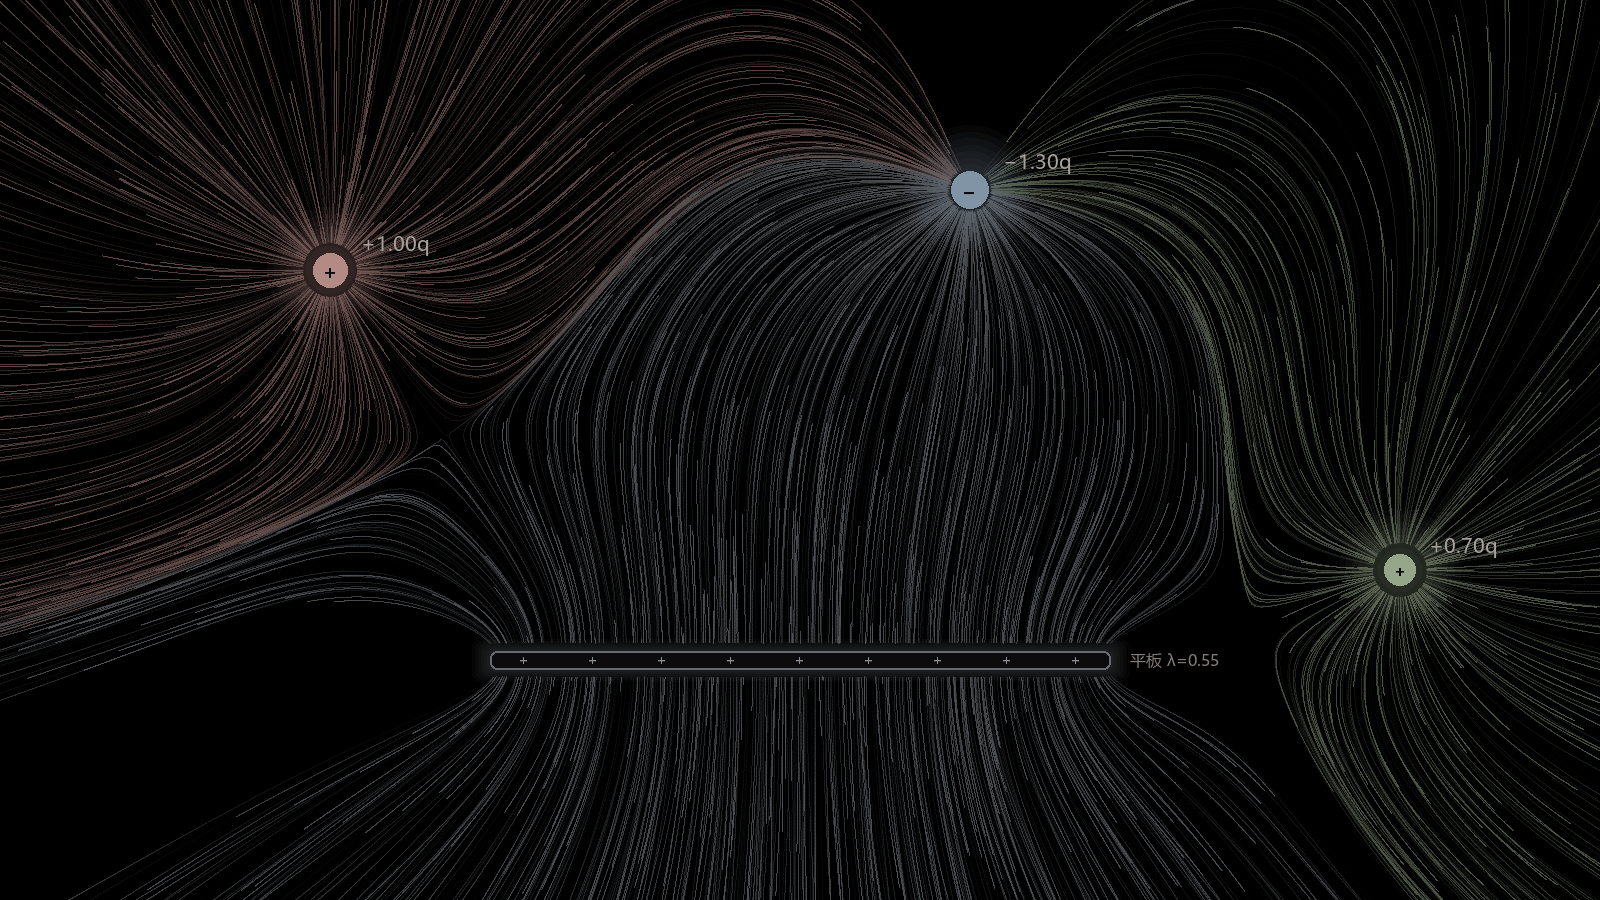
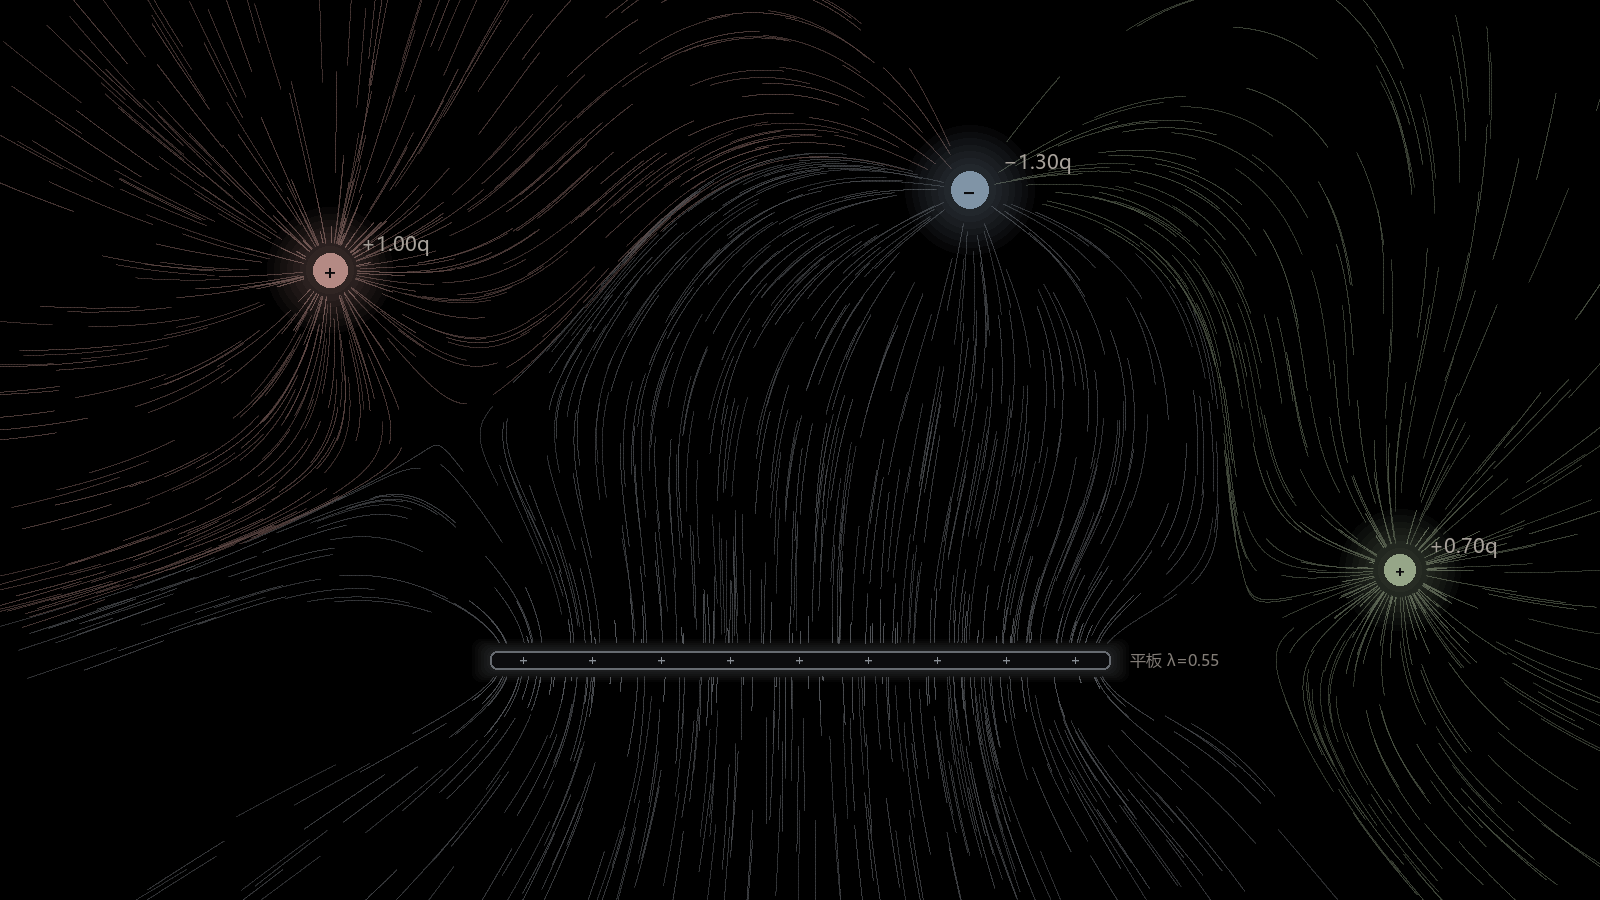
拖尾改为粒子轨迹历史，背景恒为纯黑
像素累积式拖尾在 8 位通道下有量化下限（round(v*0.968)=v），
暗到 16 以下永远衰减不下去，所以背景停在深灰。

改为每帧整屏清黑，粒子各自保存 TAIL_N 帧轨迹点，按历史画折线：
- 背景恒为纯黑，不存在任何残留
- 线是沿真实轨迹的曲线，不是直线段拼接
- 画面不随时间累积变化，每帧可复现
- 拖尾长度滑杆改为控制保留帧数（4~80 帧）
- 小屏（tall）默认粒子数降到 700，控制顶点量

tools/sim.mjs 同步改为光栅化最后一帧的折线。

diff --git a/index.html b/index.html
@@ -189,8 +189,8 @@
     <input id="npn" type="number" min="200" max="2600" step="100" value="1400">
   </label>
   <label class="ctl"><span>拖尾长度</span>
-    <input id="trl" type="range" min="0" max="100" step="1" value="70">
-    <input id="trln" type="number" min="0" max="100" step="1" value="70">
+    <input id="trl" type="range" min="0" max="100" step="1" value="34">
+    <input id="trln" type="number" min="0" max="100" step="1" value="34">
   </label>
   <label class="ctl"><span>流速</span>
     <input id="spd" type="range" min="0.8" max="7" step="0.1" value="3.4">
@@ -211,7 +211,7 @@
 </aside>
 
 <!-- 版本号：只在这里改 -->
-<div id="ver">v0.0.4</div>
+<div id="ver">v0.0.5</div>
 
 <script>
 /* =====================================================================
@@ -314,9 +314,15 @@ function captureLayout() {
 
 let N_PARTICLES = 1400;
 let SPEED = 3.4;
-let TRAIL_ALPHA = 8.1;
+let TAIL_N = 30;                // 每颗粒子保留多少帧轨迹
+const TAIL_MIN = 4, TAIL_MAX = 80;
 const MAX_CHARGES = 8;
 const MAX_PLATES  = 6;
+
+/* 滑杆 0~100 → 保留帧数 */
+function setTail(v) {
+  TAIL_N = Math.round(TAIL_MIN + (v / 100) * (TAIL_MAX - TAIL_MIN));
+}
 
 /* 拖拽 / 悬停：{kind: 'charge'|'plate'|null, idx, dx, dy}
    dx/dy 是按下时「鼠标位置」到「物体中心」的偏移，保证抓住哪里就从哪里拖，
@@ -332,7 +338,6 @@ const pointer   = {x: 0, y: 0};
 
 let particles = [];
 let sources   = [];
-let trail;
 let cnv;
 
 /* ---------------- 小工具 ---------------- */
@@ -459,13 +464,14 @@ function spawnParticle(p) {
   p.jit     = random(-0.03, 0.03);
   p.life    = 0;
   p.maxLife = random(160, 460);
-  p.alpha   = random(80, 165);
+  p.alpha   = random(120, 210);
+  p.hist    = [];
   p.skip    = true;
 }
 
 function blankParticle() {
   return {x: 0, y: 0, rgb: [160, 160, 160], ch: 0, mul: 1, jit: 0,
-          life: 0, maxLife: 300, alpha: 150, skip: true};
+          life: 0, maxLife: 300, alpha: 150, hist: [], skip: true};
 }
 
 function setParticleCount(n) {
@@ -502,12 +508,16 @@ function advect(p) {
   const nx = p.x + (rx / m) * step;
   const ny = p.y + (ry / m) * step;
 
-  const seg = {x0: p.x, y0: p.y, x1: nx, y1: ny, rgb: p.rgb, a: p.alpha, ch: p.ch, skip: p.skip};
-
   p.skip = false;
   p.x = nx;
   p.y = ny;
   p.life++;
+
+  // 记录轨迹点：拖尾靠这份历史画出来，不靠像素累积
+  p.hist.push(nx, ny);
+  if (p.hist.length > TAIL_N * 2) {
+    p.hist.splice(0, 2);
+  }
 
   let dead = p.life > p.maxLife;
   if (Math.abs(p.x) > W / 2 + 40 || Math.abs(p.y) > H / 2 + 40) dead = true;
@@ -517,7 +527,7 @@ function advect(p) {
   }
   if (dead) spawnParticle(p);
 
-  return seg;
+  return {skip: p.skip};
 }
 
 rebuildSources();   // 纯 JS，不碰 p5，可以在顶层跑
@@ -538,13 +548,6 @@ function currentDensity() {
   return Math.min(window.devicePixelRatio || 1, 2);
 }
 
-function makeTrail() {
-  if (trail) trail.remove();
-  trail = createGraphics(W, H);
-  trail.pixelDensity(currentDensity());
-  trail.background(BG[0], BG[1], BG[2]);
-}
-
 function setup() {
   // 先量画布，再决定用哪套场景（装载时要用到 W/H）
   const [w, h] = fitStage();
@@ -552,6 +555,7 @@ function setup() {
   H = h;
 
   MODE = window.matchMedia(MOBILE_QUERY).matches ? 'tall' : 'wide';
+  if (MODE === 'tall') N_PARTICLES = 700;   // 小屏降低顶点数，避免掉帧
   loadScene(MODE);        // 内部会 syncLayout()
   rebuildSources();
 
@@ -562,8 +566,6 @@ function setup() {
 
   // 必须等 p5 就绪后再初始化粒子：spawnParticle 用到 p5 的 random()
   initParticles();
-
-  makeTrail();
 
   buildPanel();
   attachPointer();
@@ -580,7 +582,7 @@ function setMode(next) {
 
 /* 窗口尺寸变了就重算画布，内容按比例重新铺满 */
 function windowResized() {
-  if (!trail) return;
+  if (!cnv) return;
 
   const next = window.matchMedia(MOBILE_QUERY).matches ? 'tall' : 'wide';
   const modeChanged = next !== MODE;
@@ -600,39 +602,39 @@ function windowResized() {
   }
 
   resizeCanvas(W, H);
-  makeTrail();          // 拖尾层尺寸变了，只能重建（会清空累积的场线）
 }
 
 function draw() {
-  // ① 拖尾层：不清空，只按 alpha 衰减
-  trail.background(BG[0], BG[1], BG[2], TRAIL_ALPHA);
-
-  // 粒子坐标是设计空间（原点在中心），trail 原点在左上角，必须做同样的变换
-  trail.push();
-  trail.translate(W / 2, H / 2);
-  trail.strokeCap(ROUND);
-  trail.strokeWeight(1.25);
-
-  for (let i = 0; i < particles.length; i++) {
-    const s = advect(particles[i]);
-    if (s.skip) continue;
-    trail.stroke(s.rgb[0], s.rgb[1], s.rgb[2], s.a);
-    trail.line(s.x0, s.y0, s.x1, s.y1);
-  }
-  trail.pop();
-
-  // ② 主画布：每帧重画，静态元素不会累积
+  // 每帧整块清成纯黑 —— 没有任何残留，这就是「真黑」的来源
   background(BG[0], BG[1], BG[2]);
-  image(trail, 0, 0);
 
   if (drag.kind === 'charge' && drag.idx >= CHARGES.length) drag = NO_DRAG();
   if (drag.kind === 'plate' && drag.idx >= PLATES.length) drag = NO_DRAG();
 
   push();
   translate(W / 2, H / 2);
+  noFill();
+  strokeCap(ROUND);
+  strokeWeight(1.3);
+
+  for (let i = 0; i < particles.length; i++) {
+    const p = particles[i];
+    advect(p);
+
+    const h = p.hist;
+    if (h.length < 4) continue;          // 刚重生的粒子先不画
+
+    stroke(p.rgb[0], p.rgb[1], p.rgb[2], p.alpha);
+    beginShape();
+    for (let k = 0; k < h.length; k += 2) vertex(h[k], h[k + 1]);
+    endShape();
+  }
+
+  // 静态元素画在粒子之上
   drawPlates();
   drawCharges();
   drawLabels();
+
   pop();
 
   updateCursor();
@@ -852,8 +854,9 @@ function setPair(rangeId, numId, v) {
 }
 
 function buildPanel() {
+  setPair('np', 'npn', N_PARTICLES);
   bindPair($('np'), $('npn'), v => setParticleCount(Math.round(v)));
-  bindPair($('trl'), $('trln'), v => { TRAIL_ALPHA = 20 - v * 0.17; });
+  bindPair($('trl'), $('trln'), v => setTail(v));
   bindPair($('spd'), $('spdn'), v => { SPEED = v; });
 
   $('add').addEventListener('click', addCharge);
@@ -1013,14 +1016,14 @@ function resetAll() {
   drag = NO_DRAG();
   hover = NO_DRAG();
 
-  setPair('np', 'npn', 1400);
+  const np0 = MODE === 'tall' ? 700 : 1400;
+  setPair('np', 'npn', np0);
   setPair('spd', 'spdn', 3.4);
-  setPair('trl', 'trln', 70);
-  TRAIL_ALPHA = 20 - 70 * 0.17;
+  setPair('trl', 'trln', 34);
+  setTail(34);
 
   rebuildSources();
-  setParticleCount(1400);
-  trail.background(BG[0], BG[1], BG[2]);
+  setParticleCount(np0);
   renderAll();
 }
 

diff --git a/README.md b/README.md
@@ -1,7 +1,7 @@
 # 电磁场可视化 · Electric Field Visualization
 
 用 p5.js 做的实时电场流场动画：**若干有限长均匀带电平板** + **若干可拖动的点电荷**，
-粒子沿电场方向运动，在拖尾层上留下连续的场线。
+粒子沿电场方向运动，拖动出连续的场线。
 
 右侧带有实时编辑面板，可以改电荷量、平板长度与线电荷密度、配色，并随时增删电荷和平板。
 默认配色为**莫兰迪色系**，背景纯黑。
@@ -72,24 +72,36 @@ ra = √(a² + y²)  rb = √(b² + y²)
 
 ## 实现要点
 
-**1. 两块画布**
+**1. 拖尾靠历史，不靠像素累积**
 
-拖尾需要「不清空画布、只让它变淡」。但如果平板、电荷、文字也画在同一块画布上，
-它们会每帧叠加一次，几十帧后糊成实心色块。所以拆成两层：
+最初的做法是「不清空画布、每帧盖一层半透明黑」来制造拖尾。这有个致命的物理限制：
+8 位通道做乘法衰减时，`round(v × 0.968) = v`——**暗到 16 以下的像素永远衰减不下去**，
+于是画面残留一层深灰，到不了真黑。
+
+改成把轨迹存进粒子自己身上：
 
 ```js
-// ① 拖尾层：不清空，只按 alpha 衰减
-trail.background(BG[0], BG[1], BG[2], TRAIL_ALPHA);
-trail.push();
-trail.translate(W / 2, H / 2);      // ← 和静态层用同一个原点
-trail.line(s.x0, s.y0, s.x1, s.y1);
-trail.pop();
+// 每帧整屏清成纯黑，没有任何残留
+background(0, 0, 0);
 
-// ② 主画布：每帧彻底重画
-background(BG[0], BG[1], BG[2]);
-image(trail, 0, 0);
-drawPlate(); drawCharges(); drawLabels();
+// 粒子推进时记录历史点（保留 TAIL_N 帧）
+p.hist.push(nx, ny);
+if (p.hist.length > TAIL_N * 2) p.hist.splice(0, 2);
+
+// 按历史画折线
+noFill();
+beginShape();
+for (let k = 0; k < p.hist.length; k += 2) vertex(p.hist[k], p.hist[k + 1]);
+endShape();
 ```
+
+好处是三重的：
+
+- **背景恒为纯黑**，不存在任何残留
+- 线是**沿真实轨迹**的曲线，不是直线段拼接
+- 无论跑多久画面都不会累积变化，导出视频时每一帧都可复现
+
+代价是顶点数：`粒子数 × 拖尾帧数`。默认 1400 × 30 ≈ 4 万个顶点/帧，小屏下调到 700 颗。
 
 **2. 只取场方向，不取场强**
 
@@ -148,8 +160,8 @@ x = nx * W;     y = ny * H;     len = nlen * W;
 其余要点：
 
 - 指针坐标只需减去画布中心，没有额外变换，拖拽在任何尺寸下都准
-- 窗口尺寸变化时拖尾层会重建，所以那一刻场线会清空、重新累积（约 0.5 秒）
-- 背景与拖尾都收敛到**纯黑**（`BG = [0,0,0]`），空白区不会残留深灰
+- 窗口尺寸变化时场景按比例重排，不重建任何缓冲
+- 背景恒为**纯黑**（`BG = [0,0,0]`），每帧整屏重画，不存在残留
 
 ## 目录
 
@@ -192,11 +204,11 @@ const MAX_CHARGES = 8
 const MAX_PLATES  = 6
 ```
 
-运行时参数（粒子数、拖尾长度、流速）由面板控制，不写死在源码里。
+运行时参数（粒子数、拖尾长度、流速）由面板控制，不写死在源码里。`拖尾长度` 控制每颗粒子保留多少帧轨迹，范围 4~80 帧。
 
 ## 版本
 
-当前 **v0.0.4**，显示在页面左下角（手机端移到右上角）。版本号只写在 `index.html` 的 `<div id="ver">` 里，
+当前 **v0.0.5**，显示在页面左下角（手机端移到右上角）。版本号只写在 `index.html` 的 `<div id="ver">` 里，
 改一处即可。
 
 | 段位 | 含义 |
